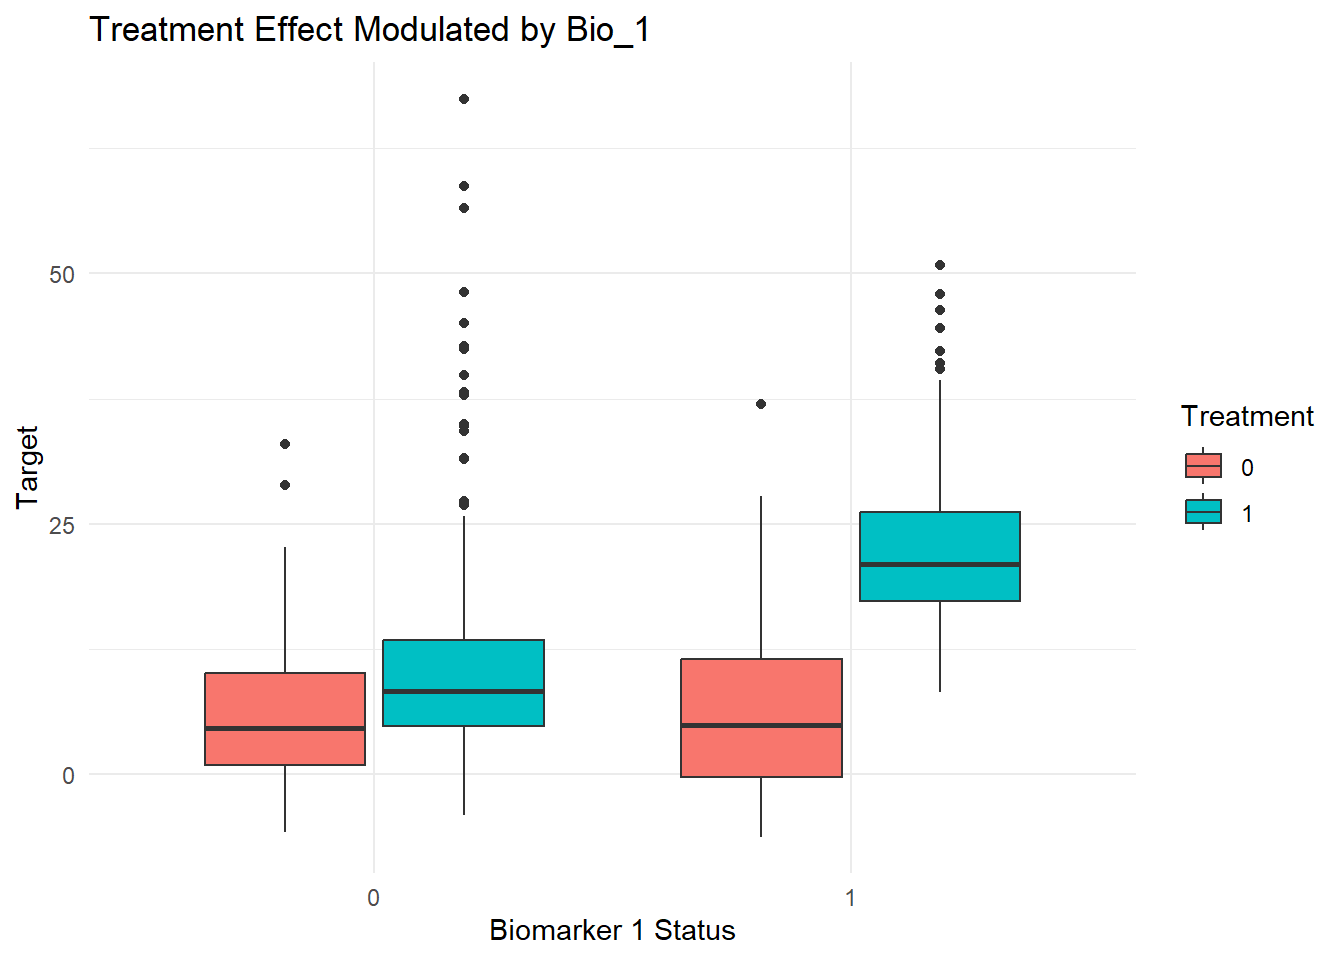
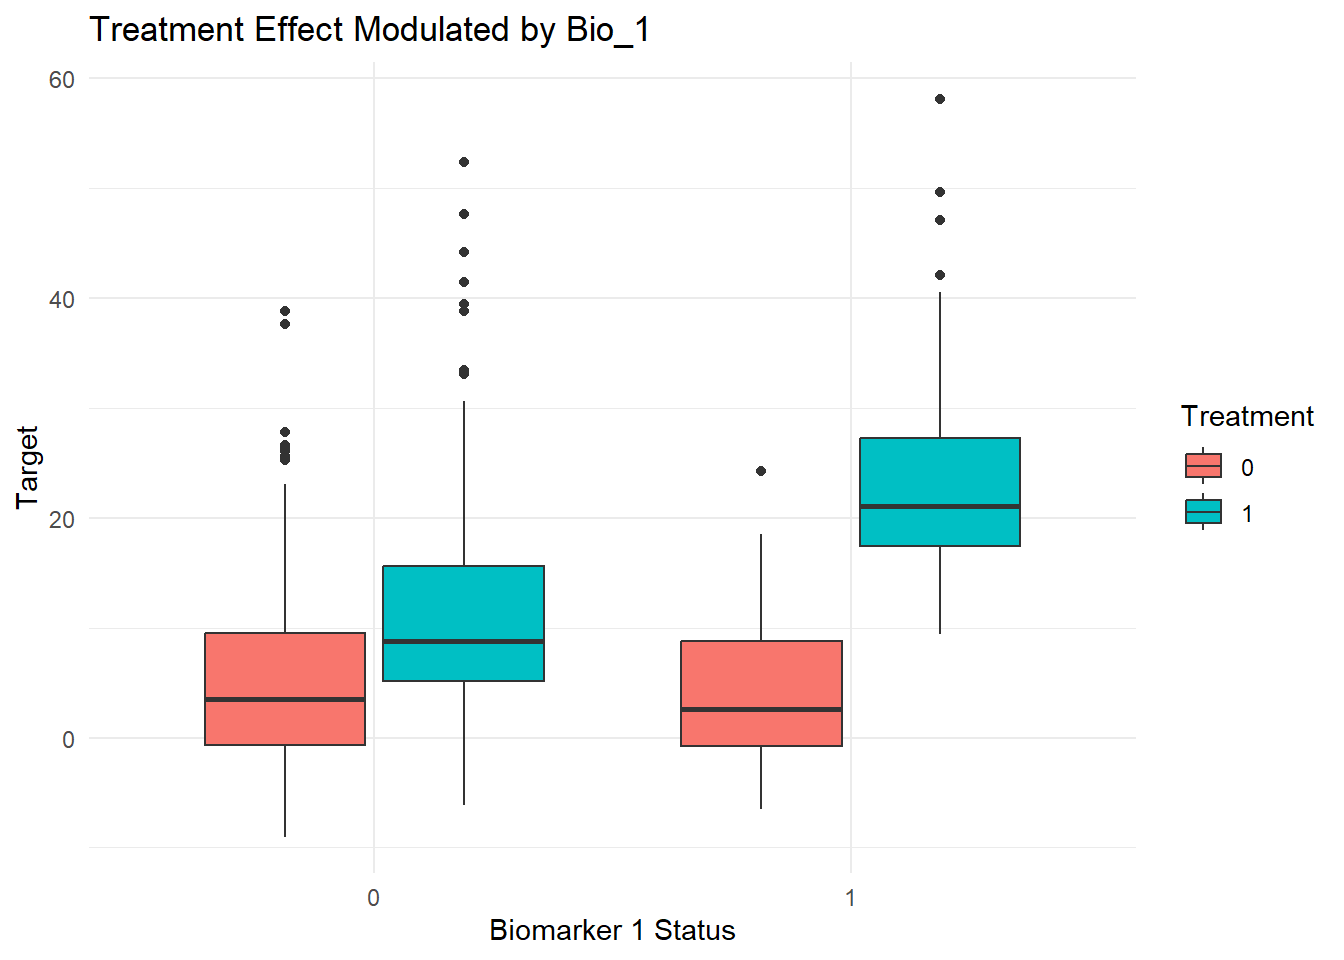
more commitment

diff --git a/documentation.html b/documentation.html
@@ -155,14 +155,15 @@ window.Quarto = {
 <h2 class="anchored" data-anchor-id="global-simulation-parameters">Global Simulation Parameters</h2>
 <div class="cell">
 <div class="code-copy-outer-scaffold"><div class="sourceCode cell-code" id="cb1"><pre class="sourceCode r code-with-copy"><code class="sourceCode r"><span id="cb1-1"><a href="#cb1-1" aria-hidden="true" tabindex="-1"></a><span class="fu">library</span>(MASS)</span>
-<span id="cb1-2"><a href="#cb1-2" aria-hidden="true" tabindex="-1"></a></span>
-<span id="cb1-3"><a href="#cb1-3" aria-hidden="true" tabindex="-1"></a>n_hist <span class="ot">&lt;-</span> <span class="dv">200</span>      <span class="co"># Patients per historical study</span></span>
-<span id="cb1-4"><a href="#cb1-4" aria-hidden="true" tabindex="-1"></a>n_trial <span class="ot">&lt;-</span> <span class="dv">500</span>     <span class="co"># Patients in current trial</span></span>
-<span id="cb1-5"><a href="#cb1-5" aria-hidden="true" tabindex="-1"></a>H <span class="ot">&lt;-</span> <span class="dv">5</span>             <span class="co"># Number of historical studies</span></span>
-<span id="cb1-6"><a href="#cb1-6" aria-hidden="true" tabindex="-1"></a>p_cont <span class="ot">&lt;-</span> <span class="dv">50</span>       <span class="co"># Number of continuous features</span></span>
-<span id="cb1-7"><a href="#cb1-7" aria-hidden="true" tabindex="-1"></a>p_bin <span class="ot">&lt;-</span> <span class="dv">5</span>         <span class="co"># Number of binary biomarkers</span></span>
-<span id="cb1-8"><a href="#cb1-8" aria-hidden="true" tabindex="-1"></a>rho <span class="ot">&lt;-</span> <span class="fl">0.8</span>         <span class="co"># Correlation for collinearity</span></span>
-<span id="cb1-9"><a href="#cb1-9" aria-hidden="true" tabindex="-1"></a>global_hist_drift <span class="ot">&lt;-</span> <span class="dv">0</span>  <span class="co"># Global historical vs current shift</span></span></code></pre></div><button title="Copy to Clipboard" class="code-copy-button"><i class="bi"></i></button></div>
+<span id="cb1-2"><a href="#cb1-2" aria-hidden="true" tabindex="-1"></a><span class="fu">library</span>(tidyverse)</span>
+<span id="cb1-3"><a href="#cb1-3" aria-hidden="true" tabindex="-1"></a></span>
+<span id="cb1-4"><a href="#cb1-4" aria-hidden="true" tabindex="-1"></a>n_hist <span class="ot">&lt;-</span> <span class="dv">200</span>      <span class="co"># Patients per historical study</span></span>
+<span id="cb1-5"><a href="#cb1-5" aria-hidden="true" tabindex="-1"></a>n_trial <span class="ot">&lt;-</span> <span class="dv">500</span>     <span class="co"># Patients in current trial</span></span>
+<span id="cb1-6"><a href="#cb1-6" aria-hidden="true" tabindex="-1"></a>H <span class="ot">&lt;-</span> <span class="dv">5</span>             <span class="co"># Number of historical studies</span></span>
+<span id="cb1-7"><a href="#cb1-7" aria-hidden="true" tabindex="-1"></a>p_cont <span class="ot">&lt;-</span> <span class="dv">50</span>       <span class="co"># Number of continuous features</span></span>
+<span id="cb1-8"><a href="#cb1-8" aria-hidden="true" tabindex="-1"></a>p_bin <span class="ot">&lt;-</span> <span class="dv">5</span>         <span class="co"># Number of binary biomarkers</span></span>
+<span id="cb1-9"><a href="#cb1-9" aria-hidden="true" tabindex="-1"></a>rho <span class="ot">&lt;-</span> <span class="fl">0.8</span>         <span class="co"># Correlation for collinearity</span></span>
+<span id="cb1-10"><a href="#cb1-10" aria-hidden="true" tabindex="-1"></a>global_hist_drift <span class="ot">&lt;-</span> <span class="dv">0</span>  <span class="co"># Global historical vs current shift</span></span></code></pre></div><button title="Copy to Clipboard" class="code-copy-button"><i class="bi"></i></button></div>
 </div>
 <p>As an example (just to show for a replicate)</p>
 <p>The simulation consists of:</p>
@@ -336,8 +337,8 @@ g(X,T)=5T+12T\times Bio_1
 </div>
 </section>
 </section>
-<section id="bayesian-borrowing-technique" class="level1">
-<h1>Bayesian Borrowing technique</h1>
+<section id="prognostic-scores-and-bayesian-borrowing-techniques" class="level1">
+<h1>Prognostic Scores and Bayesian Borrowing techniques</h1>
 <ol type="1">
 <li>Construction of a <strong>prognostic score</strong> using historical control data.</li>
 <li>Construction of a <strong>MAP (Meta-Analytic-Predictive) prior</strong> using the prognostic score.</li>
@@ -368,8 +369,122 @@ g(X,T)=5T+12T\times Bio_1
 <p><span class="math display">\[
 \mathcal{H} = \bigcup_{k=1}^K D_k^{(control)}
 \]</span></p>
-<p>be the pooled historical control dataset.</p>
-<hr>
+<p>be the pooled historical control dataset. The structure of the data is:</p>
+<div class="cell">
+<div class="code-copy-outer-scaffold"><div class="sourceCode cell-code" id="cb7"><pre class="sourceCode r code-with-copy"><code class="sourceCode r"><span id="cb7-1"><a href="#cb7-1" aria-hidden="true" tabindex="-1"></a>samp <span class="ot">&lt;-</span> all_data <span class="sc">%&gt;%</span> <span class="fu">select</span>(Study, Treatment, Target, Lab_1, Lab_2, Bio_1) </span>
+<span id="cb7-2"><a href="#cb7-2" aria-hidden="true" tabindex="-1"></a>knitr<span class="sc">::</span><span class="fu">kable</span>(samp[<span class="fu">sample</span>(<span class="fu">nrow</span>(samp), <span class="dv">10</span>), ], <span class="at">caption =</span> <span class="st">"Sample of Pooled data"</span>)</span></code></pre></div><button title="Copy to Clipboard" class="code-copy-button"><i class="bi"></i></button></div>
+<div class="cell-output-display">
+<table class="caption-top table table-sm table-striped small">
+<caption>Sample of Pooled data</caption>
+<thead>
+<tr class="header">
+<th style="text-align: left;"></th>
+<th style="text-align: left;">Study</th>
+<th style="text-align: right;">Treatment</th>
+<th style="text-align: right;">Target</th>
+<th style="text-align: right;">Lab_1</th>
+<th style="text-align: right;">Lab_2</th>
+<th style="text-align: right;">Bio_1</th>
+</tr>
+</thead>
+<tbody>
+<tr class="odd">
+<td style="text-align: left;">1065</td>
+<td style="text-align: left;">Current</td>
+<td style="text-align: right;">1</td>
+<td style="text-align: right;">9.5147387</td>
+<td style="text-align: right;">-0.6829795</td>
+<td style="text-align: right;">-0.1848869</td>
+<td style="text-align: right;">0</td>
+</tr>
+<tr class="even">
+<td style="text-align: left;">425</td>
+<td style="text-align: left;">H3</td>
+<td style="text-align: right;">0</td>
+<td style="text-align: right;">0.7363456</td>
+<td style="text-align: right;">-0.1824061</td>
+<td style="text-align: right;">0.3131589</td>
+<td style="text-align: right;">1</td>
+</tr>
+<tr class="odd">
+<td style="text-align: left;">257</td>
+<td style="text-align: left;">H2</td>
+<td style="text-align: right;">0</td>
+<td style="text-align: right;">2.6709805</td>
+<td style="text-align: right;">0.7581930</td>
+<td style="text-align: right;">0.6357282</td>
+<td style="text-align: right;">0</td>
+</tr>
+<tr class="even">
+<td style="text-align: left;">1449</td>
+<td style="text-align: left;">Current</td>
+<td style="text-align: right;">0</td>
+<td style="text-align: right;">-2.3089381</td>
+<td style="text-align: right;">-0.5865991</td>
+<td style="text-align: right;">-0.3146680</td>
+<td style="text-align: right;">1</td>
+</tr>
+<tr class="odd">
+<td style="text-align: left;">1031</td>
+<td style="text-align: left;">Current</td>
+<td style="text-align: right;">0</td>
+<td style="text-align: right;">23.0700779</td>
+<td style="text-align: right;">0.8854344</td>
+<td style="text-align: right;">0.0561708</td>
+<td style="text-align: right;">0</td>
+</tr>
+<tr class="even">
+<td style="text-align: left;">1431</td>
+<td style="text-align: left;">Current</td>
+<td style="text-align: right;">0</td>
+<td style="text-align: right;">-1.4383363</td>
+<td style="text-align: right;">-0.5308048</td>
+<td style="text-align: right;">-0.4536094</td>
+<td style="text-align: right;">0</td>
+</tr>
+<tr class="odd">
+<td style="text-align: left;">986</td>
+<td style="text-align: left;">H5</td>
+<td style="text-align: right;">0</td>
+<td style="text-align: right;">0.0900624</td>
+<td style="text-align: right;">-0.5267692</td>
+<td style="text-align: right;">-1.2217554</td>
+<td style="text-align: right;">1</td>
+</tr>
+<tr class="even">
+<td style="text-align: left;">1196</td>
+<td style="text-align: left;">Current</td>
+<td style="text-align: right;">0</td>
+<td style="text-align: right;">-1.0604591</td>
+<td style="text-align: right;">-0.2259750</td>
+<td style="text-align: right;">0.3089917</td>
+<td style="text-align: right;">0</td>
+</tr>
+<tr class="odd">
+<td style="text-align: left;">1480</td>
+<td style="text-align: left;">Current</td>
+<td style="text-align: right;">1</td>
+<td style="text-align: right;">9.4229943</td>
+<td style="text-align: right;">-1.1672142</td>
+<td style="text-align: right;">0.0358700</td>
+<td style="text-align: right;">1</td>
+</tr>
+<tr class="even">
+<td style="text-align: left;">1246</td>
+<td style="text-align: left;">Current</td>
+<td style="text-align: right;">1</td>
+<td style="text-align: right;">10.1174265</td>
+<td style="text-align: right;">0.0866500</td>
+<td style="text-align: right;">-0.2468102</td>
+<td style="text-align: right;">0</td>
+</tr>
+</tbody>
+</table>
+</div>
+</div>
+<section id="please-note-that-a-representation-of-the-features-of-the-entire-dataset-is-displayed-in-the-table-1" class="level2">
+<h2 class="anchored" data-anchor-id="please-note-that-a-representation-of-the-features-of-the-entire-dataset-is-displayed-in-the-table-1">Please note that a representation of the features of the entire dataset is displayed in the table 1</h2>
+</section>
 </section>
 <section id="step-1-build-the-prognostic-model" class="level1">
 <h1>Step 1: Build the prognostic model</h1>
@@ -393,9 +508,6 @@ m_i = \hat{f}(X_i)
 \]</span></p>
 <section id="r-fit-random-forest-prognostic-model" class="level2">
 <h2 class="anchored" data-anchor-id="r-fit-random-forest-prognostic-model">R: Fit Random Forest Prognostic Model</h2>
-<div class="cell">
-<div class="code-copy-outer-scaffold"><div class="sourceCode cell-code" id="cb7"><pre class="sourceCode r code-with-copy"><code class="sourceCode r"><span id="cb7-1"><a href="#cb7-1" aria-hidden="true" tabindex="-1"></a><span class="fu">library</span>(randomForest)</span></code></pre></div><button title="Copy to Clipboard" class="code-copy-button"><i class="bi"></i></button></div>
-</div>
 <section id="important-note-on-drift" class="level3">
 <h3 class="anchored" data-anchor-id="important-note-on-drift">Important note on drift:</h3>
 <p>There are two choices on how to fuit the prognostic models to/not to capture the inter-trial variability:</p>
